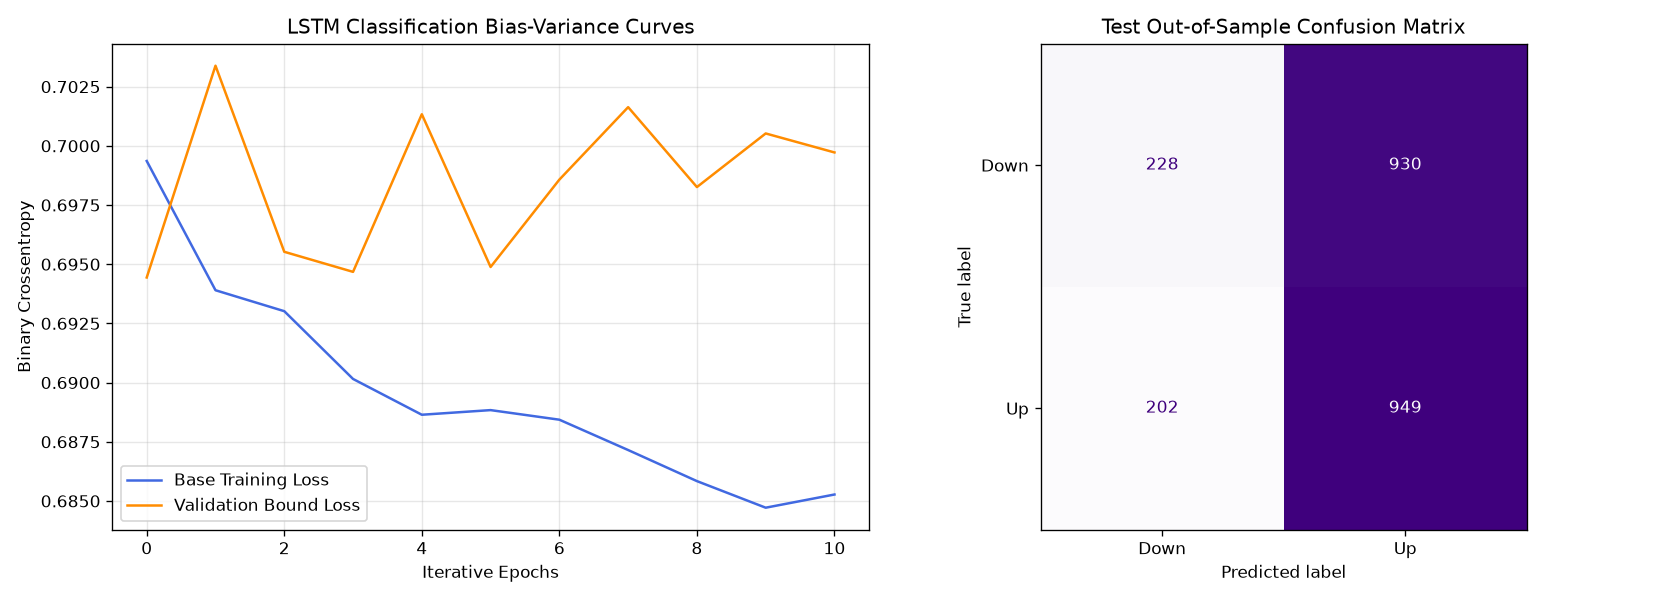
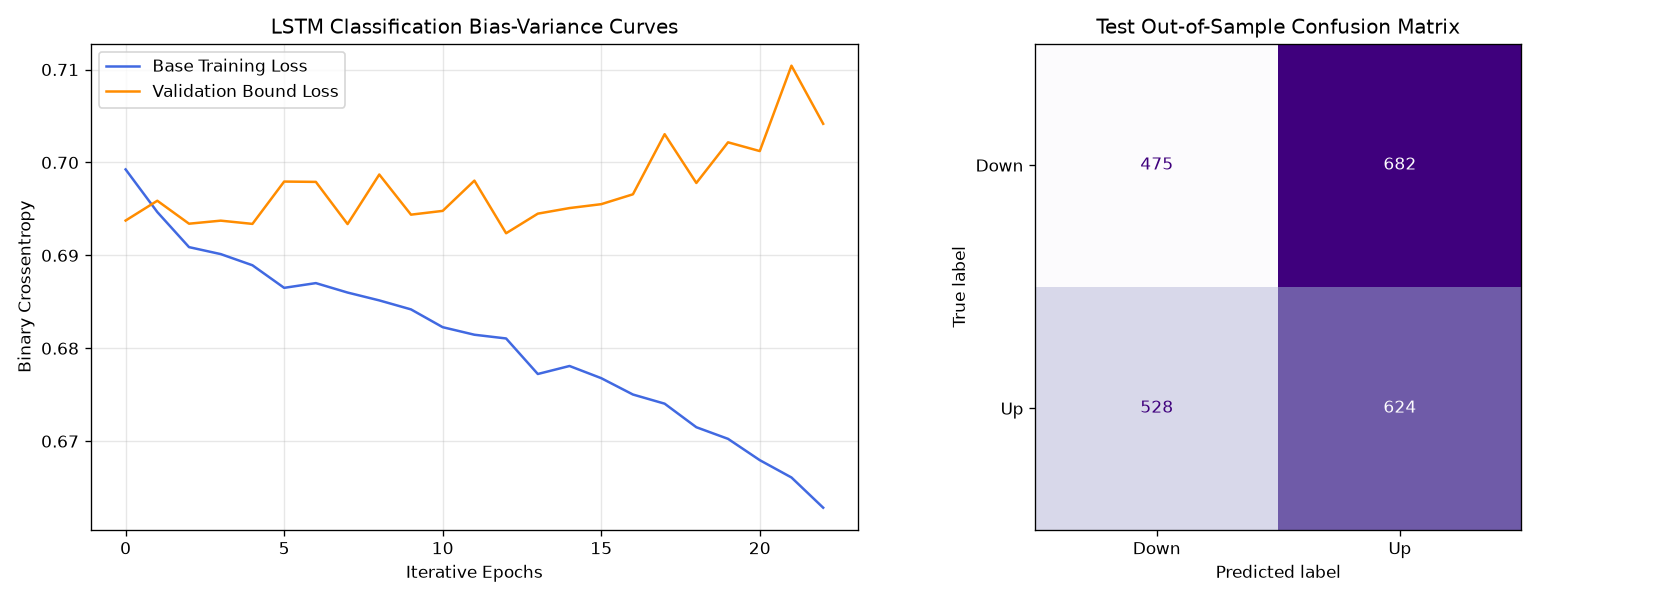
Refactor model loading to use absolute paths; update data preparation notebook
- Updated app.py to load ML model and scaler using absolute paths for robustness.
- Modified 01_data_preparation.ipynb to reset execution count and clean output logs.
- Corrected target variable extraction logic in data preparation to prevent indexing errors.
- Updated binary model and scaler files.
- Changed LSTM evaluation plot to reflect recent training results.

diff --git a/app.py b/app.py
@@ -4,8 +4,15 @@ import numpy as np
 import joblib
 import warnings
 
+import os
+
 # Suppress specific non-critical numerical extraction warnings for production
 warnings.filterwarnings('ignore')
+
+# Determine absolute paths for robust deployment execution regardless of CWD
+BASE_DIR = os.path.dirname(os.path.abspath(__file__))
+MODEL_PATH = os.path.join(BASE_DIR, 'models', 'best_gbm_eurusd.pkl')
+SCALER_PATH = os.path.join(BASE_DIR, 'models', 'scaler_gb_eurusd.pkl')
 
 # Mathematical Baseline Definitions matching the Notebook's structure precisely
 FEATURE_COLUMNS = [
@@ -15,10 +22,10 @@ FEATURE_COLUMNS = [
     'dynamics_lag_2', 'return_lag_3', 'dynamics_lag_3', 'day_sin', 'day_cos'
 ]
 
-# Loading serialized ML pipeline artifacts computationally
+# Loading serialized ML pipeline artifacts computationally via absolute paths
 try:
-    model = joblib.load('models/best_gbm_eurusd.pkl')
-    scaler = joblib.load('models/scaler_gb_eurusd.pkl')
+    model = joblib.load(MODEL_PATH)
+    scaler = joblib.load(SCALER_PATH)
     model_loaded = True
 except Exception as e:
     model = None